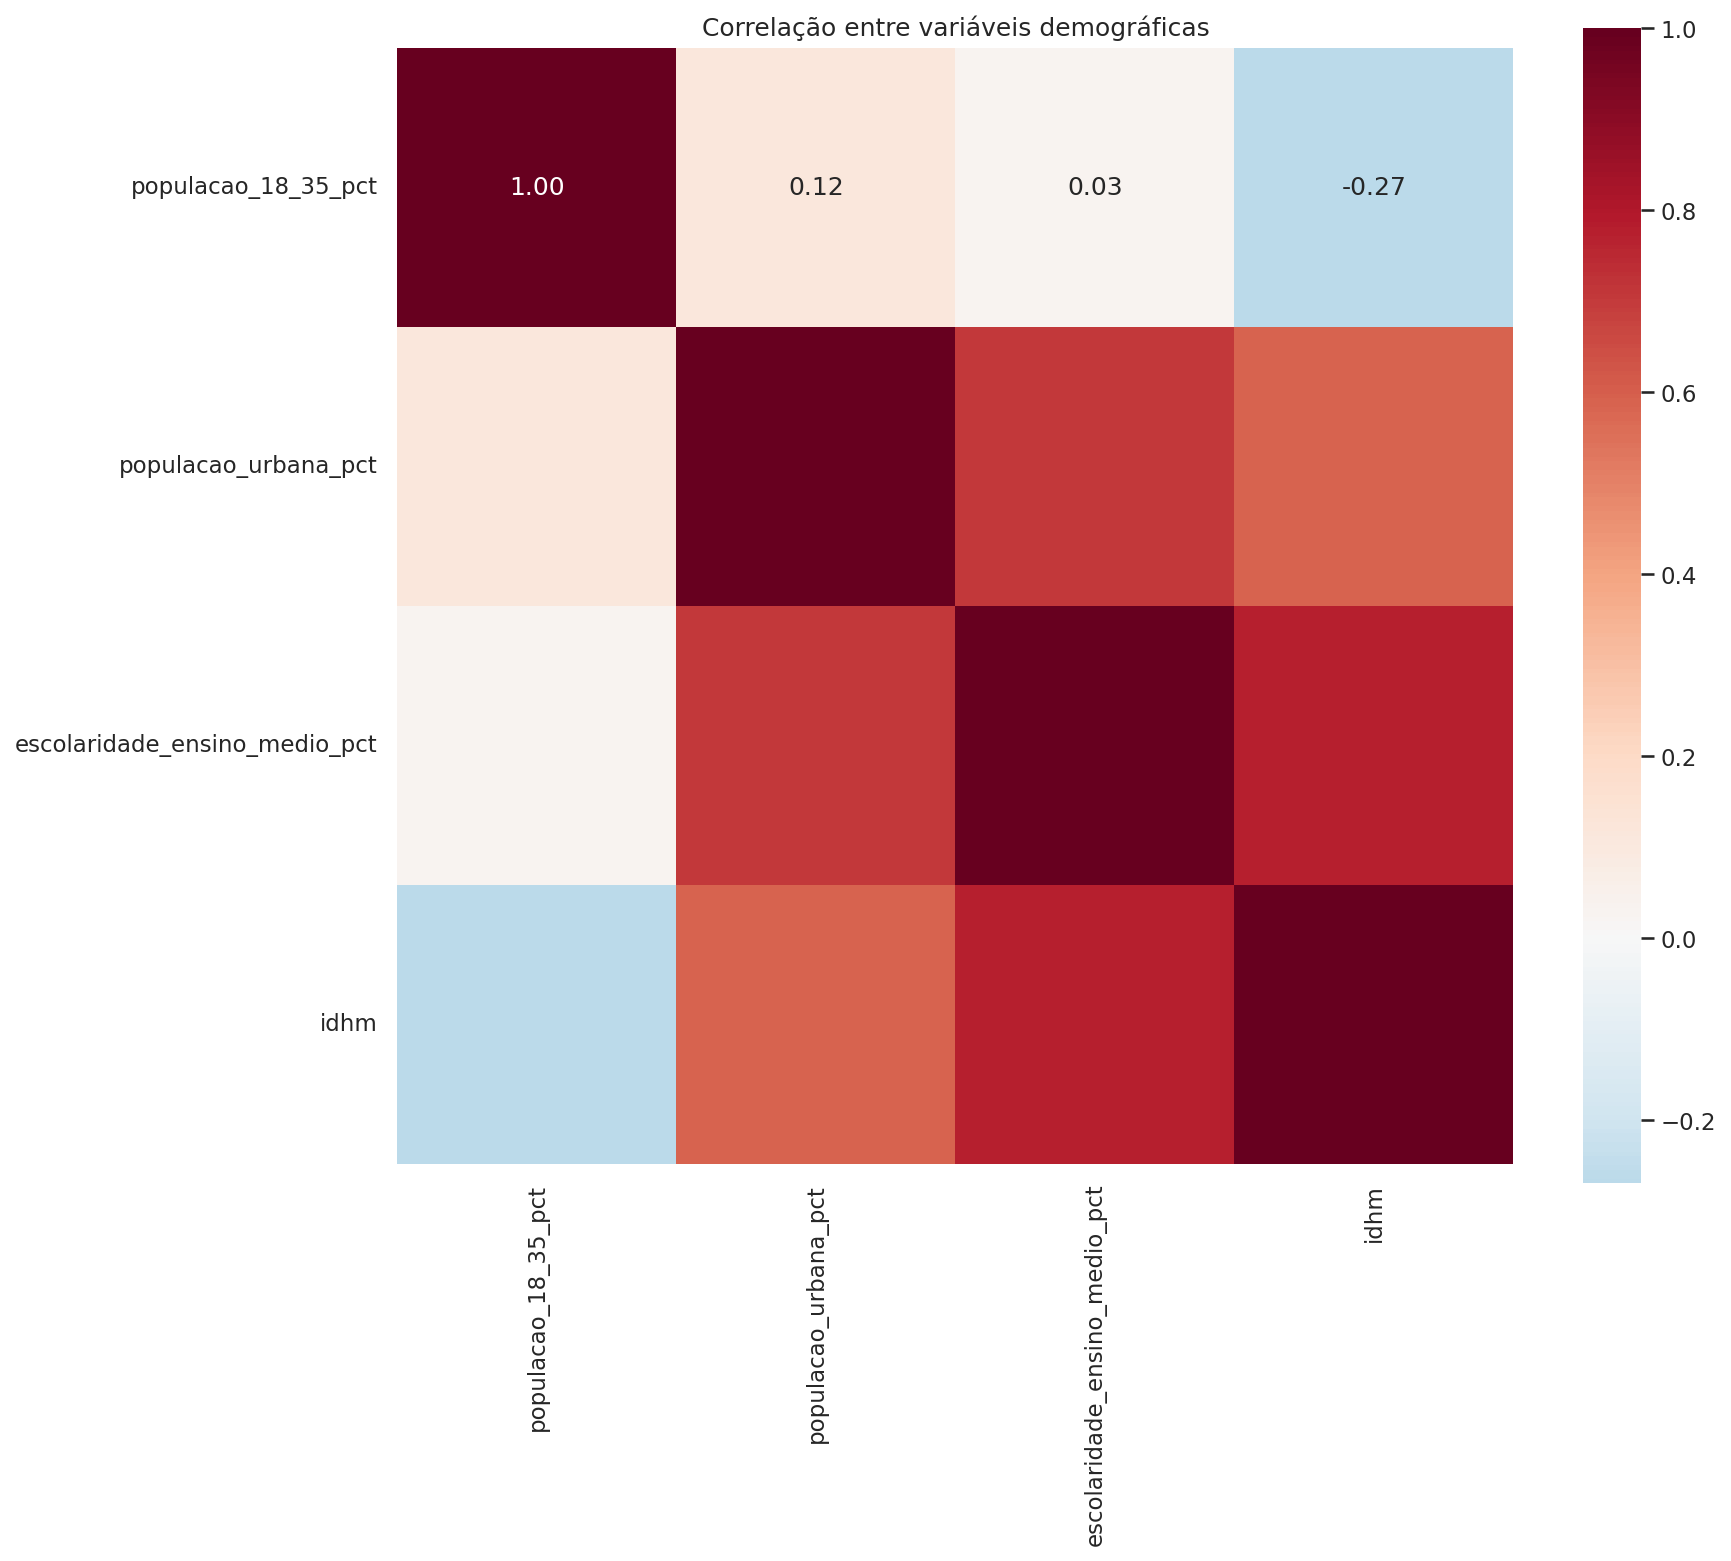
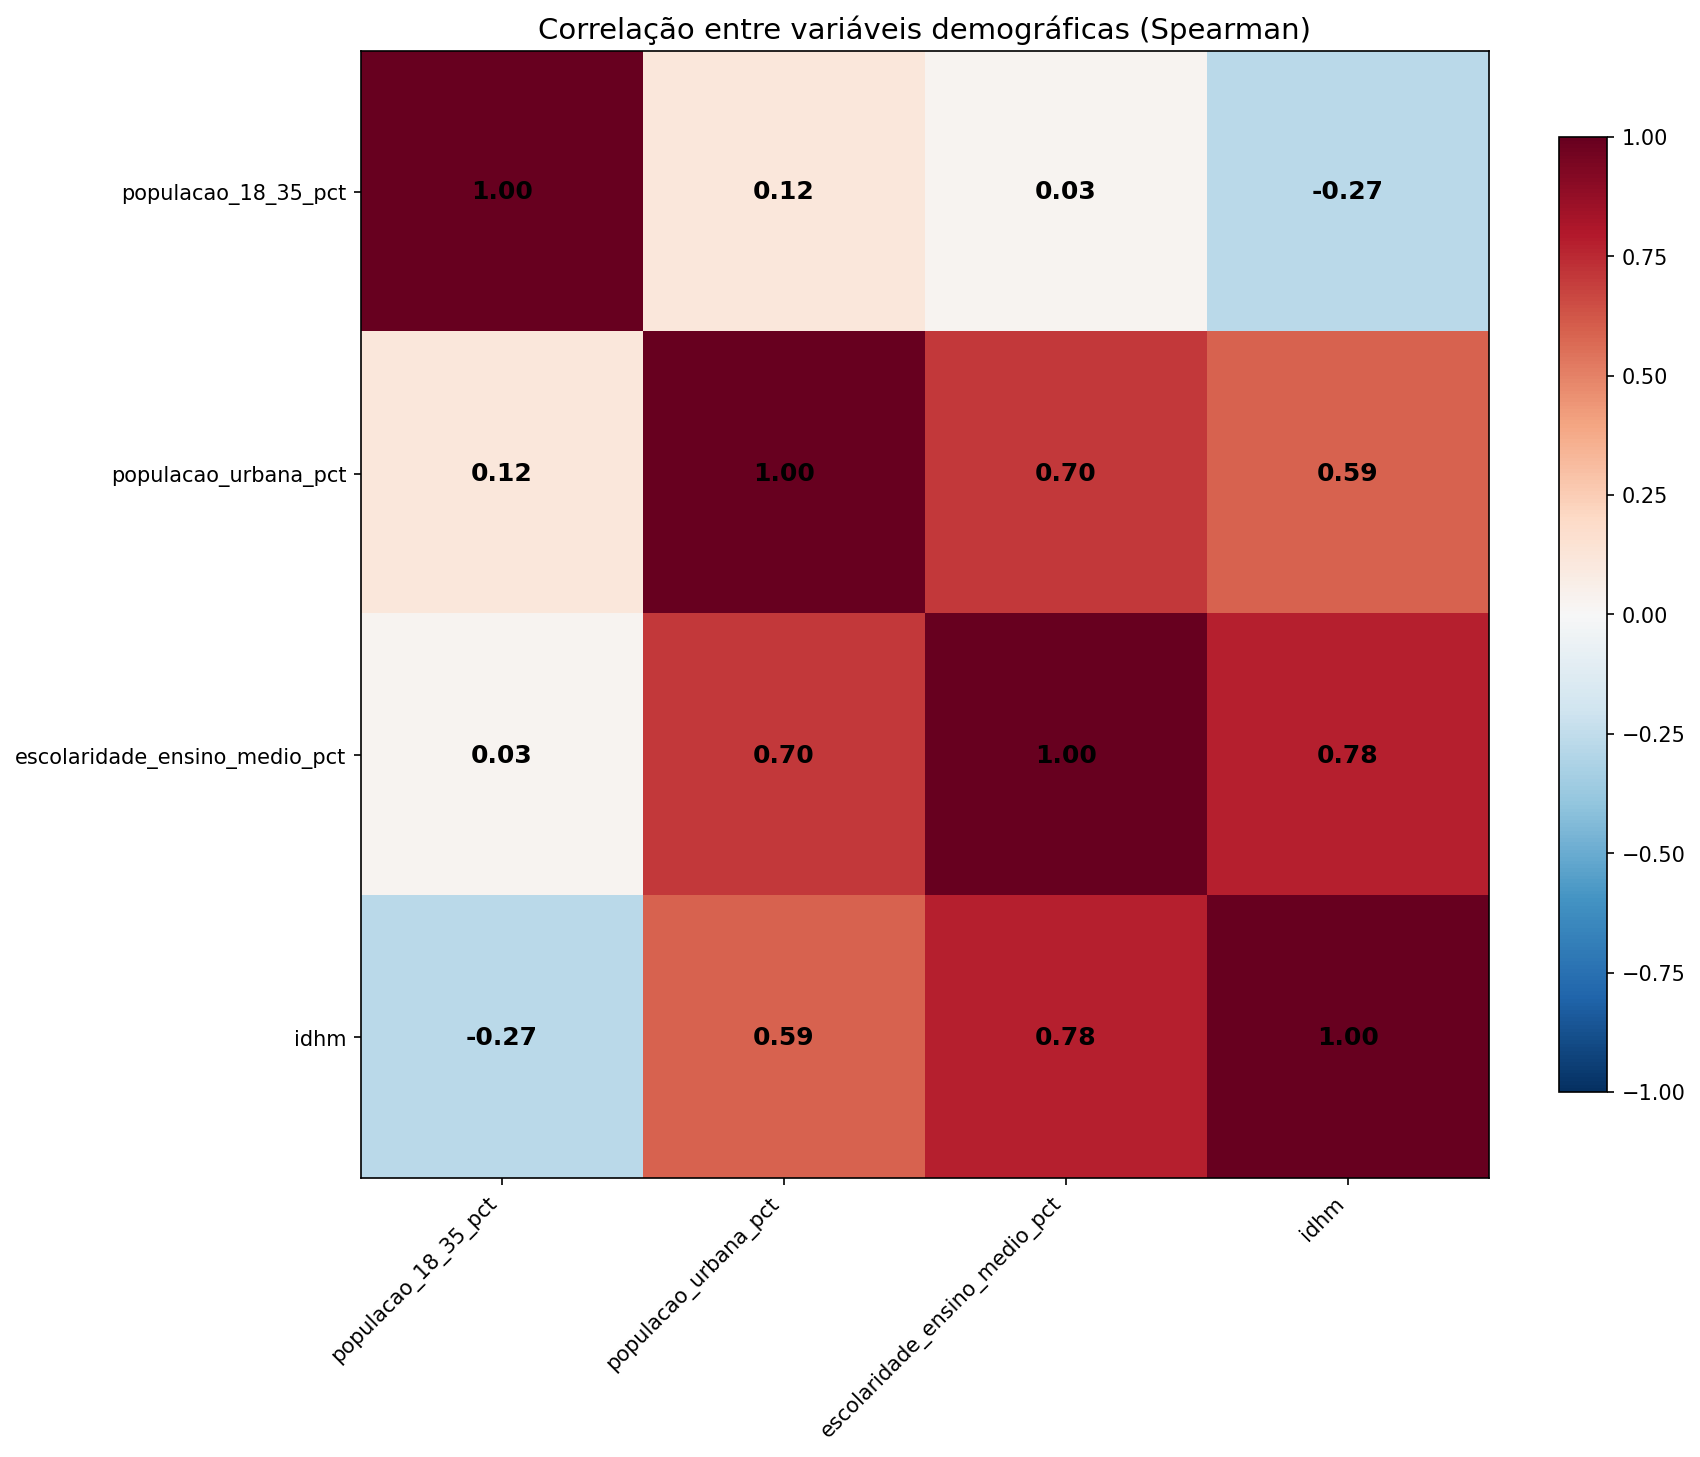
fix(utils): corrige anotação da matriz de correlação e ref vals dos gráficos log

diff --git a/src/utils/eda.py b/src/utils/eda.py
@@ -171,6 +171,7 @@ def plot_distribution(
     title: str | None = None,
     xlabel: str | None = None,
     log_scale: bool = False,
+    log_ref_vals: list[float] | None = None,
     filename: str | None = None,
 ) -> plt.Figure:
     """Gera histograma com KDE para uma variável numérica.
@@ -184,21 +185,41 @@ def plot_distribution(
         title: Título do gráfico.
         xlabel: Rótulo do eixo X.
         log_scale: Se True, aplica log1p nos dados e indica no título.
+        log_ref_vals: Lista de valores log para exibir em uma tabela de
+            referência convertendo log(x+1) para o valor original. Apenas
+            utilizado quando log_scale=True.
         filename: Nome do arquivo para salvar a figura.
 
     Returns:
         Objeto Figure do matplotlib.
     """
-    fig, ax = plt.subplots(figsize=(10, 5))
+    fig, ax = plt.subplots(figsize=(12, 6))
     data = np.log1p(df[column].dropna()) if log_scale else df[column].dropna()
-    sns.histplot(data, kde=True, ax=ax, color="steelblue")
+    sns.histplot(data, kde=True, ax=ax, color="steelblue", bins=50, alpha=0.6)
 
     default_title = f"Distribuição de {column}"
     if log_scale:
         default_title += " (escala log)"
-    ax.set_title(title or default_title)
-    ax.set_xlabel(xlabel or (f"log({column} + 1)" if log_scale else column))
-    ax.set_ylabel("Quantidade de municípios")
+    ax.set_title(title or default_title, fontsize=14)
+    ax.set_xlabel(xlabel or (f"log({column} + 1)" if log_scale else column), fontsize=12)
+    ax.set_ylabel("Quantidade de municípios", fontsize=12)
+
+    # Tabela de referência log -> valor original
+    if log_scale and log_ref_vals:
+        rows = [f"{lv:>5.1f}  →  {np.expm1(lv):>14,.0f}" for lv in log_ref_vals]
+        tabela = "log(x+1) → valor real\n" + "\n".join(rows)
+        ax.text(
+            0.98,
+            0.98,
+            tabela,
+            transform=ax.transAxes,
+            fontsize=10,
+            verticalalignment="top",
+            horizontalalignment="right",
+            family="monospace",
+            bbox=dict(boxstyle="round", facecolor="white", alpha=0.8, edgecolor="gray"),
+        )
+
     if filename:
         save_figure(fig, filename)
     return fig
@@ -260,8 +281,30 @@ def plot_correlation_heatmap(
     """
     corr = df[columns].corr(method=method)
     fig, ax = plt.subplots(figsize=(12, 10))
-    sns.heatmap(corr, annot=True, fmt=".2f", cmap="RdBu_r", center=0, ax=ax, square=True)
-    ax.set_title(title or f"Matriz de Correlação ({method})")
+
+    # Usa imshow + anotação manual para garantir que todos os valores apareçam,
+    # independentemente da cor de fundo das células.
+    im = ax.imshow(corr.values, cmap="RdBu_r", vmin=-1, vmax=1)
+    for i in range(len(columns)):
+        for j in range(len(columns)):
+            ax.text(
+                j,
+                i,
+                f"{corr.values[i, j]:.2f}",
+                ha="center",
+                va="center",
+                color="black",
+                fontsize=12,
+                fontweight="bold",
+            )
+
+    ax.set_xticks(np.arange(len(columns)))
+    ax.set_yticks(np.arange(len(columns)))
+    ax.set_xticklabels(columns, rotation=45, ha="right")
+    ax.set_yticklabels(columns)
+    ax.set_title(title or f"Matriz de Correlação ({method})", fontsize=14)
+    fig.colorbar(im, ax=ax, shrink=0.8)
+
     if filename:
         save_figure(fig, filename)
     return fig
